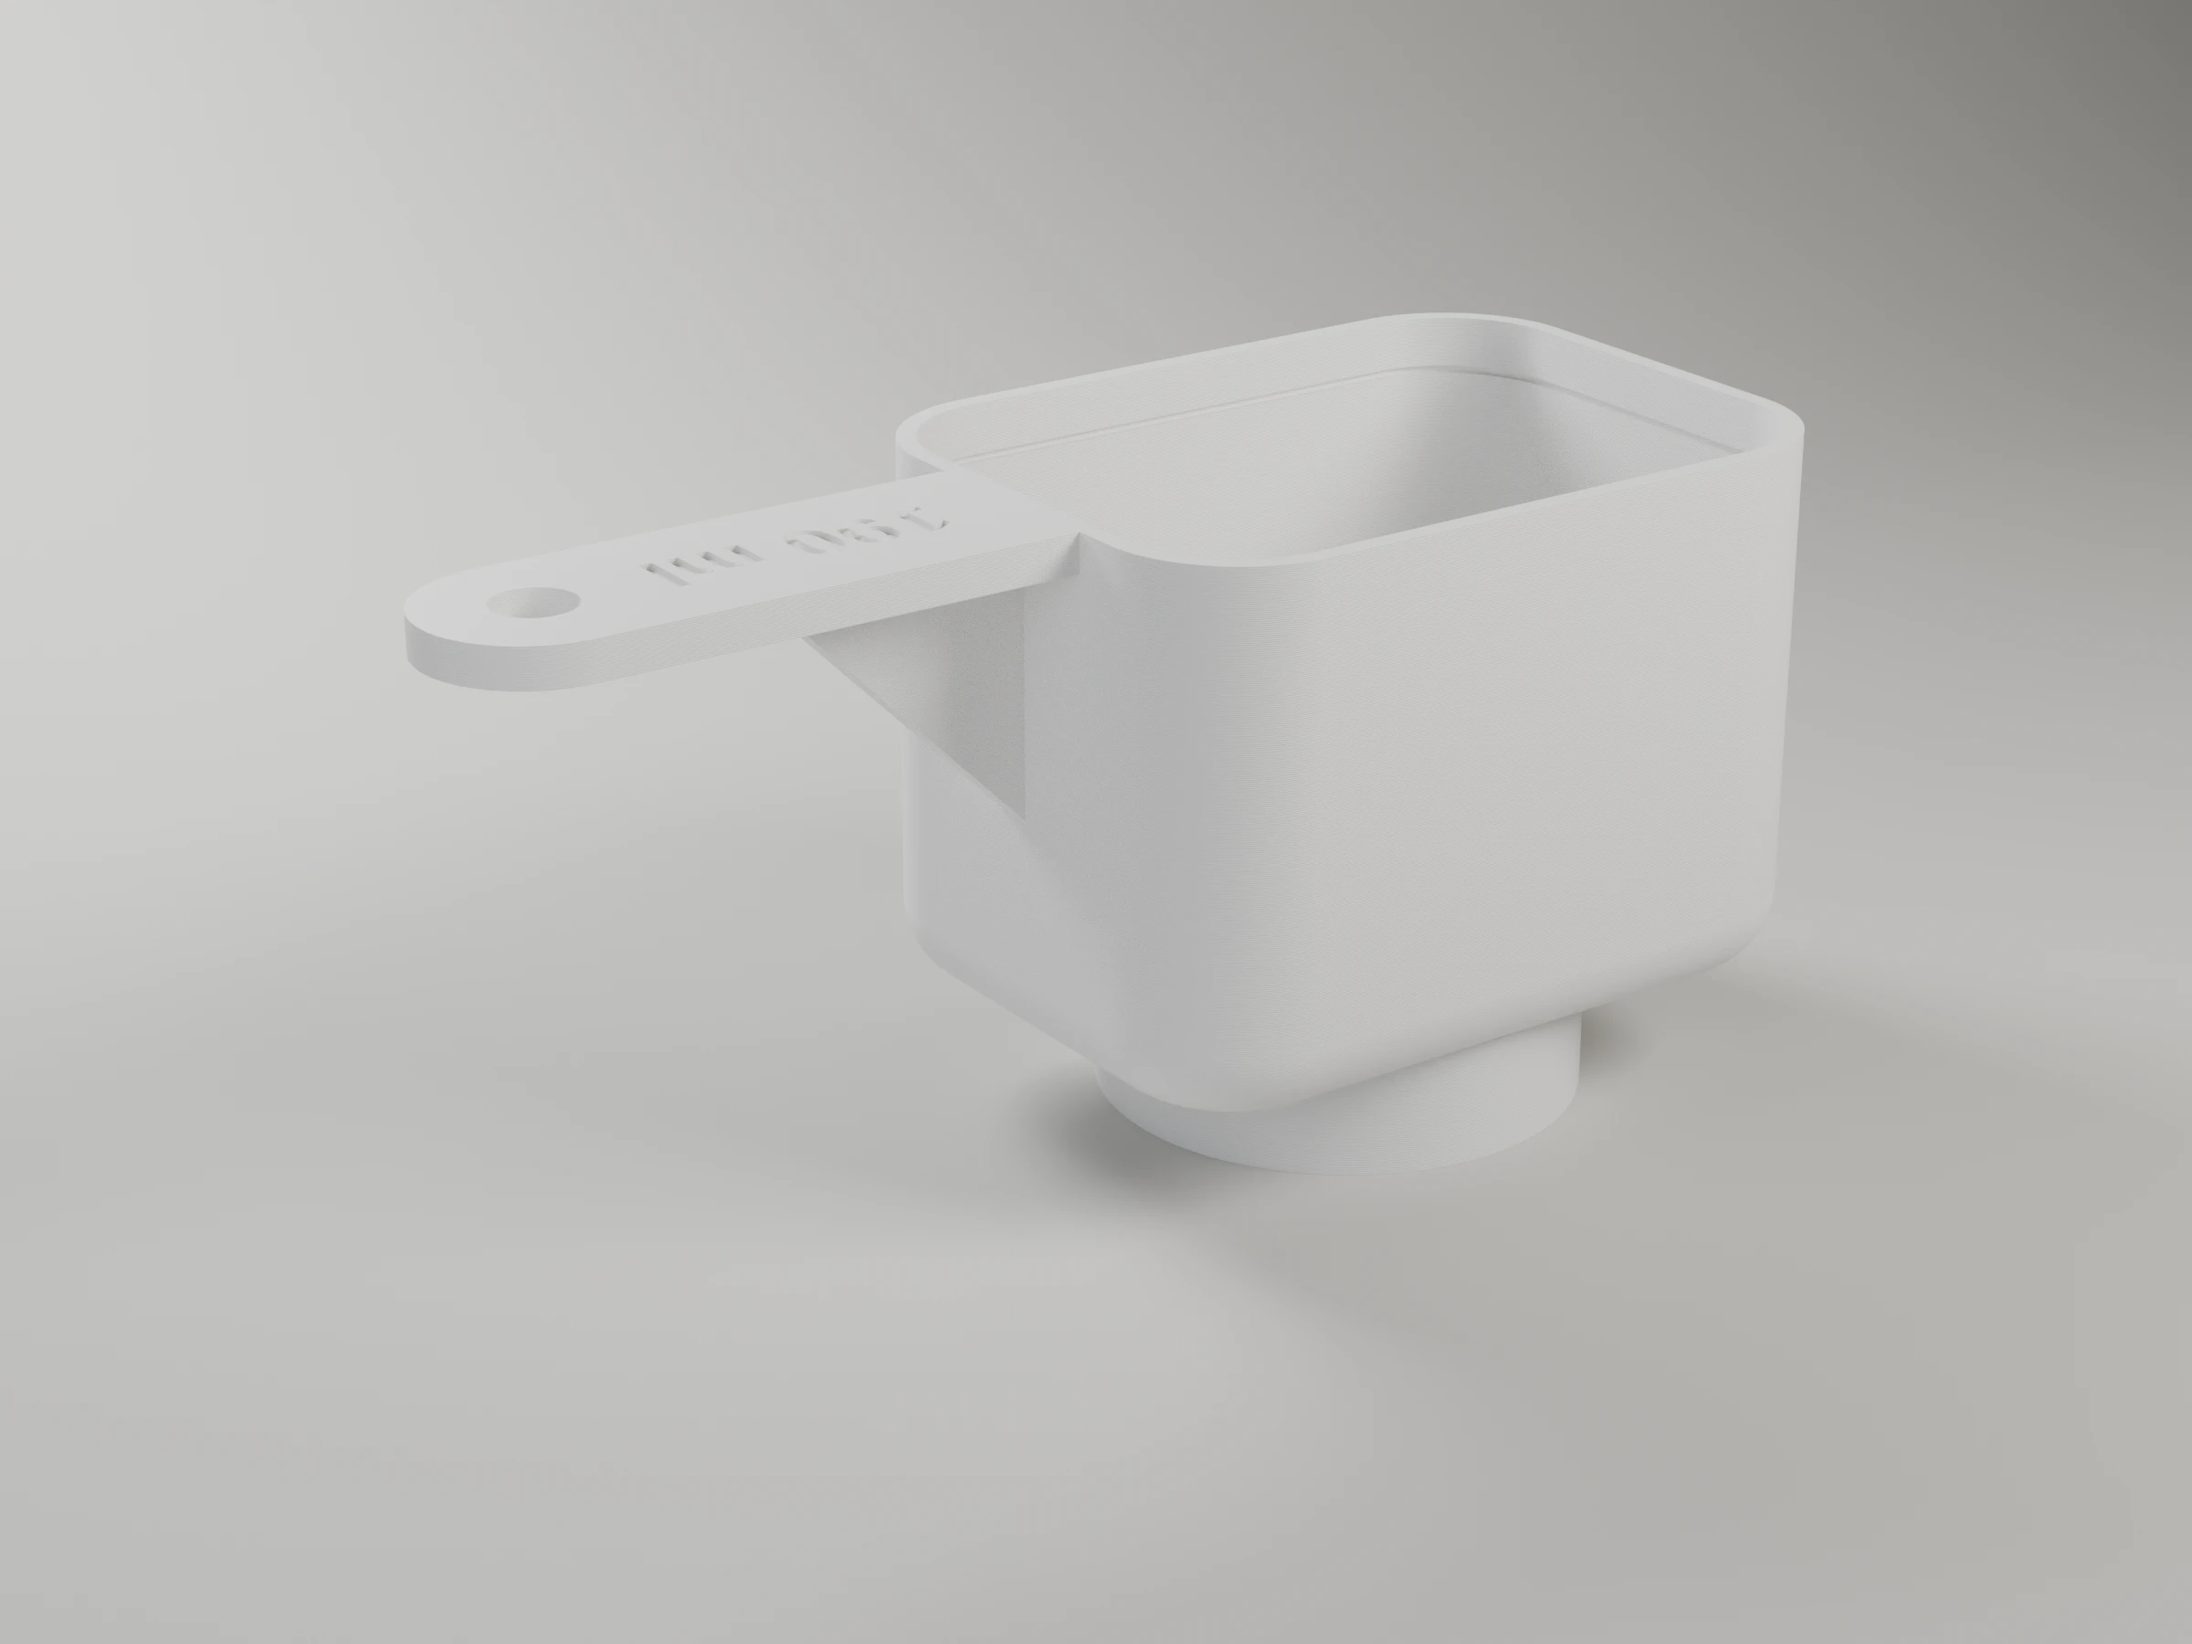
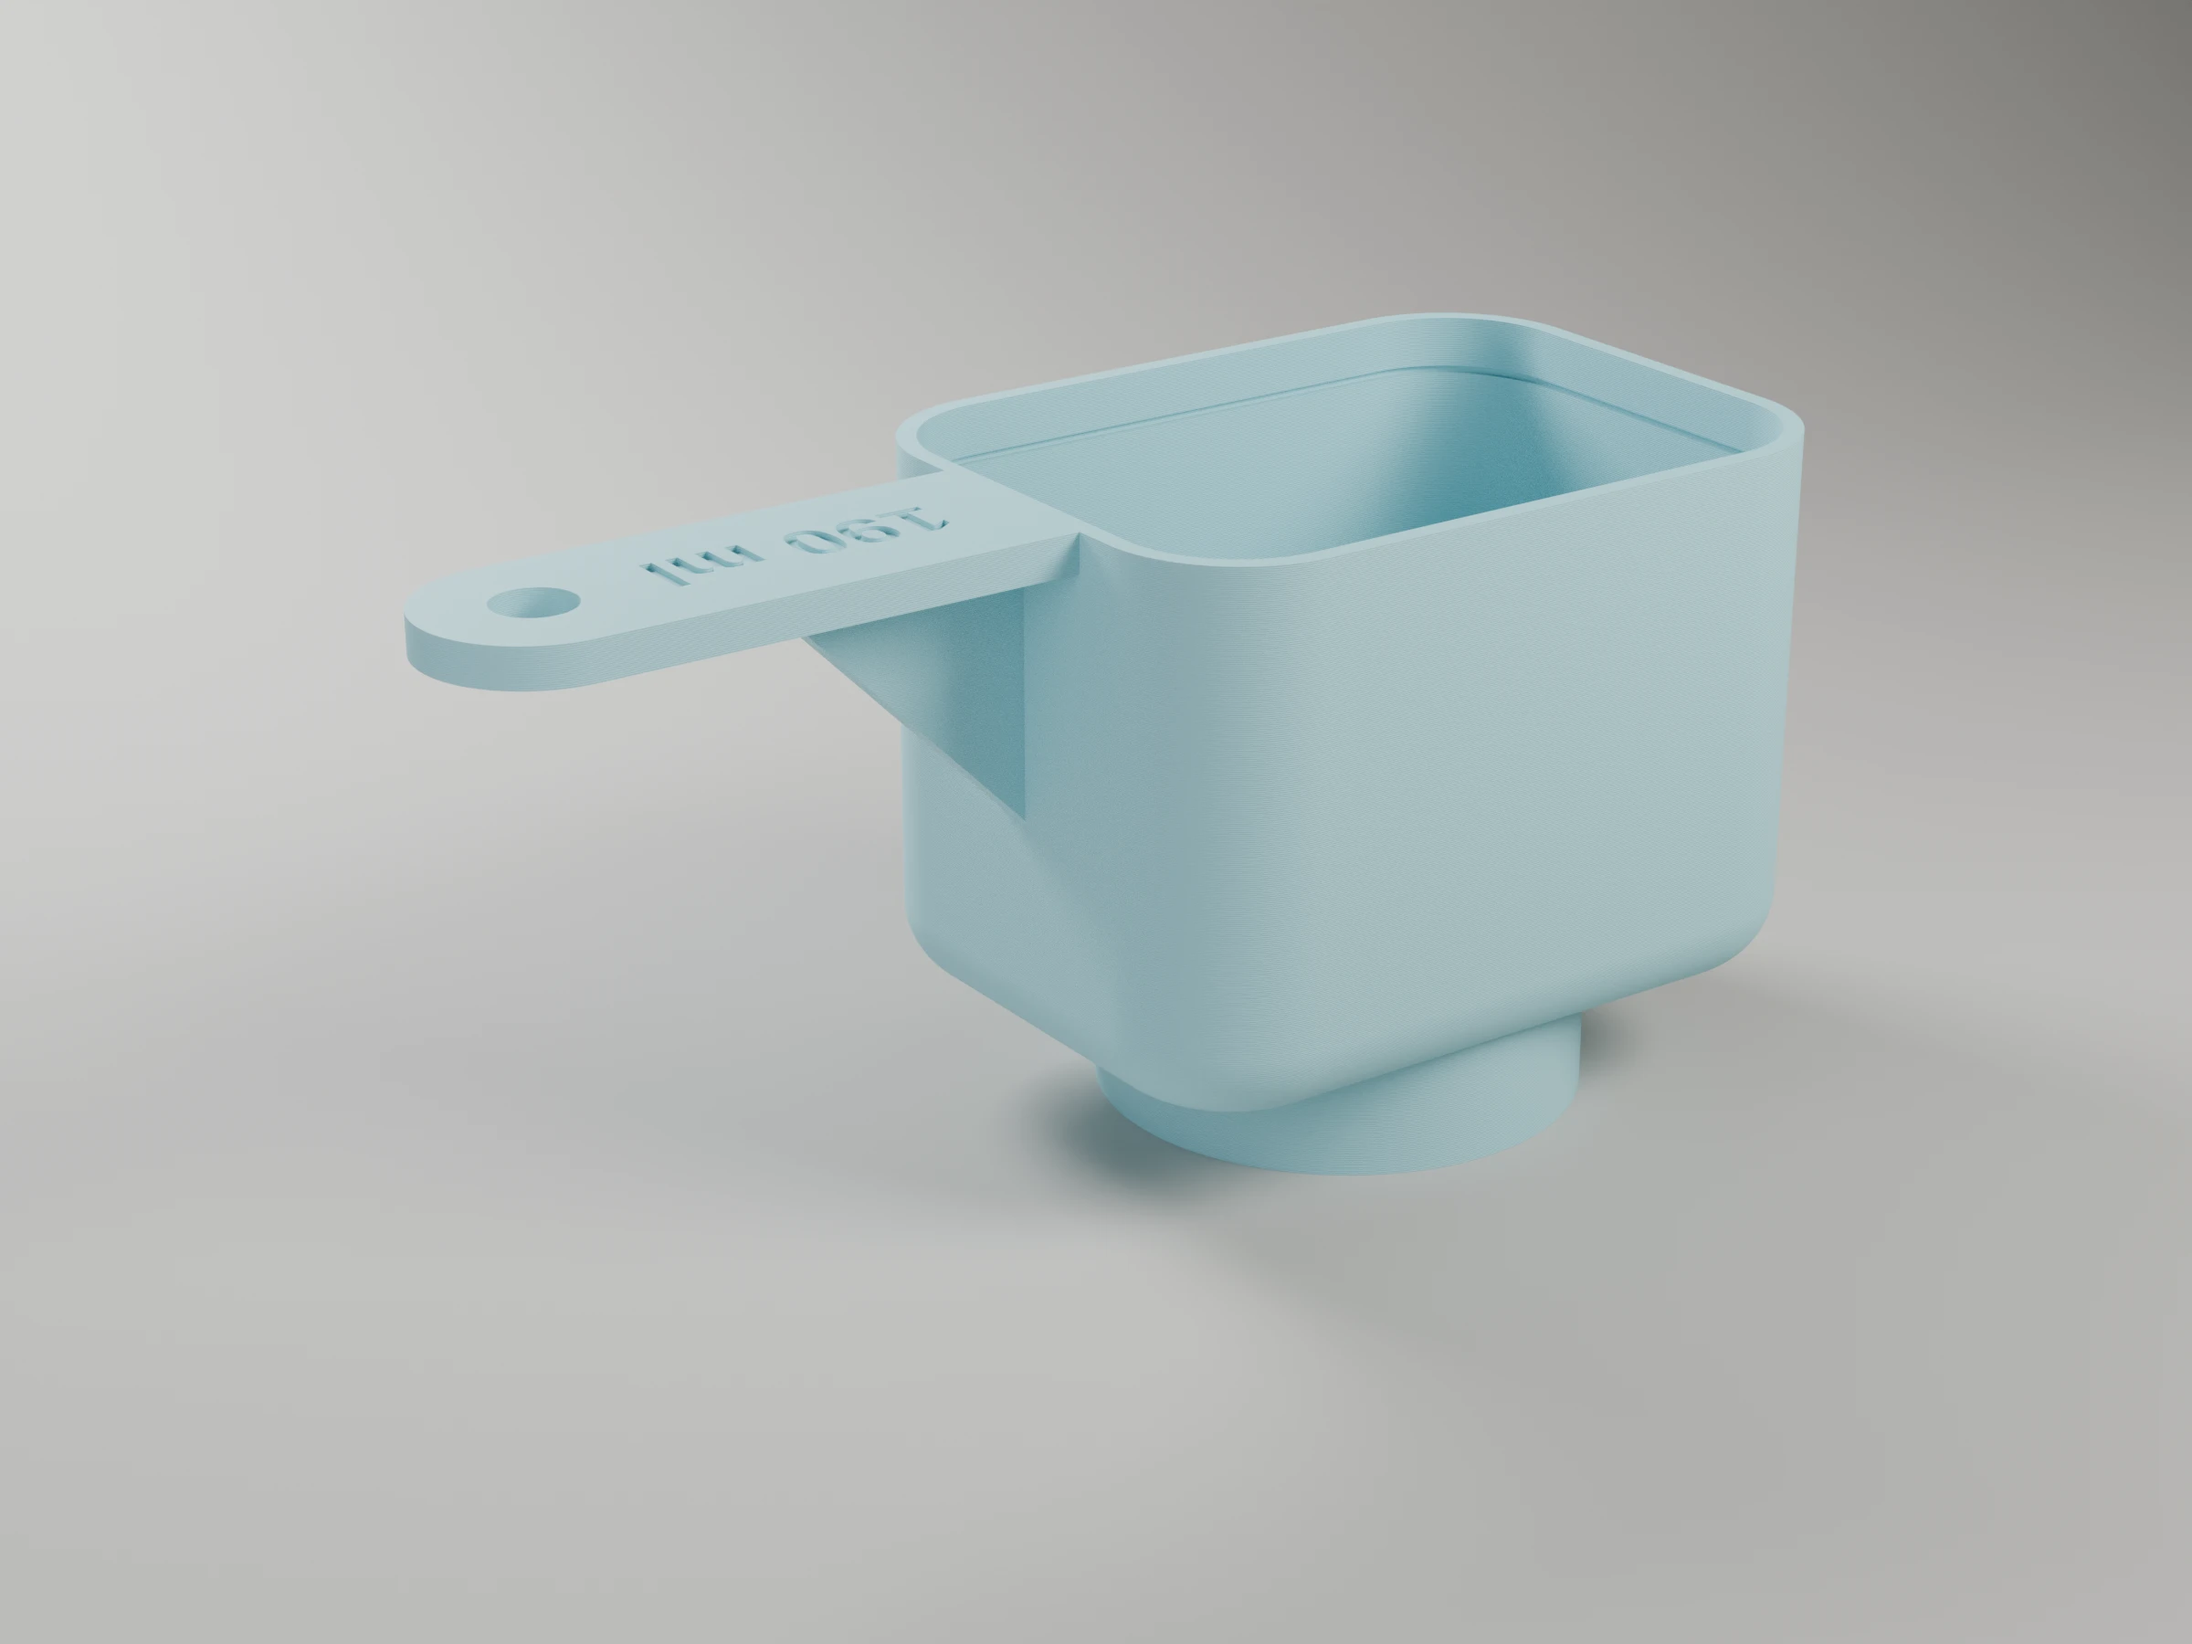
Print the detergent scoop in PLA Matte Ice Blue and re-render it
White on the white studio backdrop hid the details.

Changed region(s): [[0.1875, 0.1867, 0.8438, 0.7467]]

diff --git a/detergent-scoop/bambu_project.py b/detergent-scoop/bambu_project.py
@@ -10,7 +10,7 @@ import argparse, os, sys
 
 HERE = os.path.dirname(os.path.abspath(__file__))
 sys.path.insert(0, os.path.join(HERE, "..", "tools"))
-from bambu3mf import PLA_BASIC, Filament, Project, load_scad  # noqa: E402
+from bambu3mf import PLA_MATTE, Filament, Project, load_scad  # noqa: E402
 
 
 def main():
@@ -22,7 +22,7 @@ def main():
     proj = Project(
         "Detergent scoop",
         process="0.20mm Standard @BBL X1C",
-        filaments=[Filament(PLA_BASIC, "#F2F2F2")],
+        filaments=[Filament(PLA_MATTE, "#A3D8E1")],  # Ice Blue
         # The 2 mm walls are solid anyway; gyroid only fills the handle and the collar.
         process_overrides={"sparse_infill_pattern": "gyroid"},
     )

diff --git a/detergent-scoop/README.md b/detergent-scoop/README.md
@@ -30,7 +30,7 @@ recalculated). The console prints the fill-line height and total size.
 `make project` builds `detergent-scoop-p1s.3mf`, a Bambu Studio project with
 the scoop already upside down (rim and handle on the bed, collar on top) on a
 Textured PEI plate: P1S 0.4 nozzle, *0.20mm Standard* with gyroid infill,
-Bambu PLA Basic in slot 1. No supports needed. About 1 h and 49 g with the
+Bambu PLA Matte Ice Blue in slot 1. No supports needed. About 1 h and 51 g with the
 default parameters (`make report` prints the figures for your parameters). It
 needs Bambu Studio installed.
 
